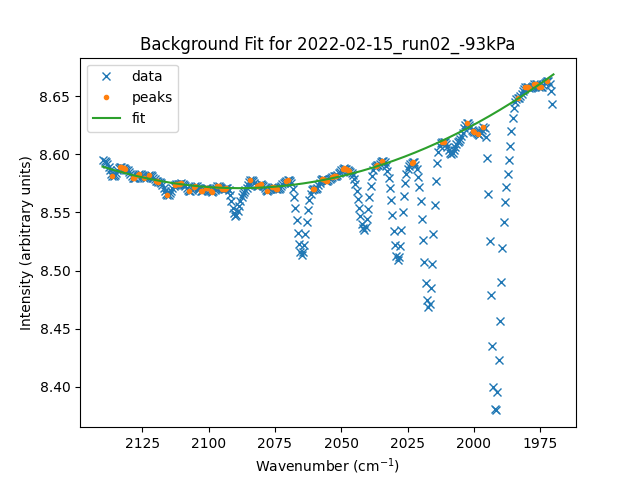
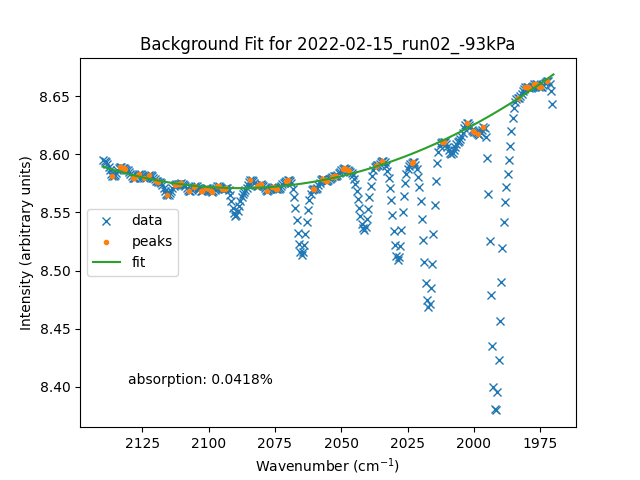
generate H2O absorption values

diff --git a/src/water.py b/src/water.py
@@ -57,6 +57,24 @@ def fit_bkgd(x_data, y_data, func, guess):
     return fitted, err_cov
 
 
+def absorption(x_data, y_data, fitted_params):
+    y_fitted = parabola(x_data, fitted_params[0], fitted_params[1], fitted_params[2])
+    y_diff = y_fitted - y_data
+    x_int, y_int = [], []
+    for i in range(len(x_data)):
+        if y_diff[i] > 0:
+            x_int.append(x_data[i])
+            y_int.append(y_diff[i])
+    # plt.figure()
+    # plt.plot(x_int, y_int)
+    # plt.show()
+    absorbed_radiation = integrate.trapezoid(y_int, x_int)
+    tot_radiation = integrate.trapezoid(y_fitted, x_data)
+    absorp = absorbed_radiation / tot_radiation * 100
+
+    return absorp
+
+
 if __name__ == "__main__":
 
     data_path = Path.cwd() / "data" / "2022-02-15"
@@ -78,8 +96,8 @@ if __name__ == "__main__":
     except:
         pass
 
-    # for i in range(len(data_files)):
-    for i in range(1):
+    for i in range(len(data_files)):
+    # for i in range(1):
         x_data, y_data = spectra.read_data(data_files[i])
         x_range = [1970, 2140]
         x_cropped, y_cropped = crop_spectrum(x_range[0], x_range[1], x_data, y_data)
@@ -96,18 +114,21 @@ if __name__ == "__main__":
         # )
         yy_fit = parabola(xx_fit, bkgd_params[0], bkgd_params[1], bkgd_params[2])
 
-        plt.figure()
+        absorp = absorption(x_top, y_top, bkgd_params)
+        # print("absorption: " + str(absorp) + "%")
+
+        fig = plt.figure()
         plt.plot(x_cropped, y_cropped, 'x', label="data")
         plt.plot(x_top, y_top, '.', label="peaks")
         plt.plot(xx_fit, yy_fit, label="fit")
         plt.gca().invert_xaxis()
-        plt.legend()
+        plt.legend(loc="center left")
         plt.title("Background Fit for 2022-02-15_run02_" + str(data_files[i].name).split("_")[-1][:-4])
         plt.xlabel("Wavenumber (cm$^{-1}$)")
         plt.ylabel("Intensity (arbitrary units)")
+        plt.text(200, 100, "absorption: " + str(round(absorp, 4)) + "%", ha='center', va='center', transform=None)
+
         # plt.show()
         fig_name_list = str(data_files[i].name).split("_")
         fig_name = fig_name_list[0] + "_" + fig_name_list[1] + "_" + fig_name_list[-1][:-4] + ".png"
         plt.savefig(output_path / fig_name)
-
-
